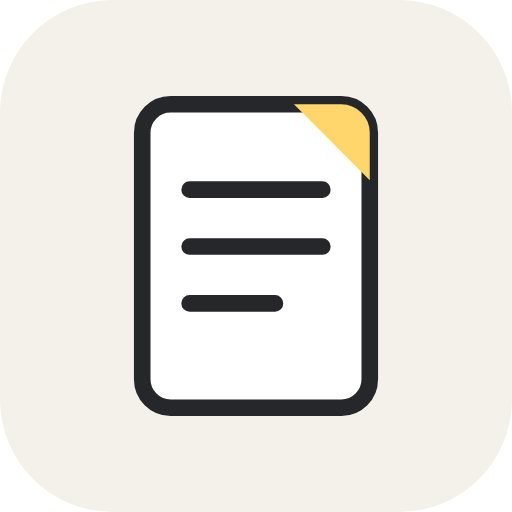
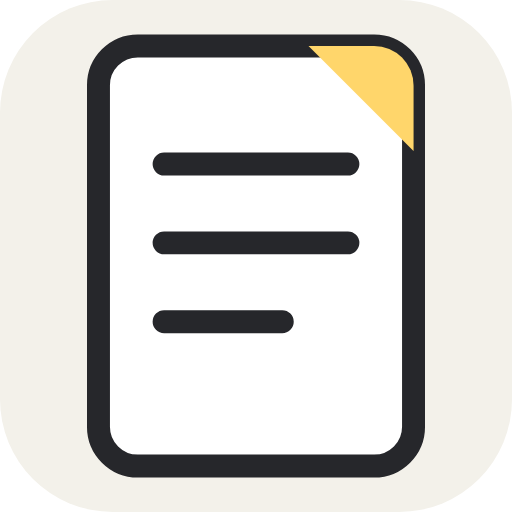
앱 아이콘 그림을 키워 작업 표시줄과 홈 화면에서 다른 앱만큼 보이게, 아이콘 주소에 버전

Changed region(s): [[0.1562, 0.0625, 0.8438, 0.9375]]

diff --git a/web/src/appInstall.ts b/web/src/appInstall.ts
@@ -1,6 +1,9 @@
 // 홈 화면 앱(설치형 웹앱). 이름과 아이콘은 설치할 때 고르고, 이 브라우저에 기억해 둔다.
 // 설치 정보(manifest)는 서버가 고른 값으로 만들어 주고(/api/app/manifest), 화면은 그 주소만 바꾼다.
 
+/** 아이콘 그림을 바꾸면 서버(APP_ICON_VERSION)와 같이 올린다 */
+export const APP_ICON_VERSION = "2";
+
 export interface AppIcon {
   key: string;
   label: string;
@@ -72,7 +75,7 @@ function setMeta(name: string, content: string): void {
 export function applyAppChoice(choice: AppChoice = readAppChoice()): void {
   const params = new URLSearchParams({ name: choice.name, icon: choice.icon });
   setLink("manifest", `/api/app/manifest?${params.toString()}`);
-  setLink("apple-touch-icon", `/app-icons/${choice.icon}-apple.png`);
+  setLink("apple-touch-icon", `/app-icons/${choice.icon}-apple.png?v=${APP_ICON_VERSION}`);
   setMeta("apple-mobile-web-app-title", choice.name);
   setMeta("apple-mobile-web-app-capable", "yes");
   setMeta("mobile-web-app-capable", "yes");

diff --git a/web/src/InstallDialog.tsx b/web/src/InstallDialog.tsx
@@ -5,6 +5,7 @@ import {
   APP_ICONS,
   APP_NAME_MAX,
   canPromptInstall,
+  APP_ICON_VERSION,
   cleanAppName,
   DEFAULT_APP_NAME,
   externalOpenUrl,
@@ -127,7 +128,7 @@ export default function InstallDialog({ onClose, closing }: { onClose: () => voi
                       className={icon === item.key ? "install-icon install-icon-on" : "install-icon"}
                       onClick={() => setIcon(item.key)}
                     >
-                      <img src={`/app-icons/${item.key}.svg`} alt="" width="44" height="44" />
+                      <img src={`/app-icons/${item.key}-192.png?v=${APP_ICON_VERSION}`} alt="" width="44" height="44" />
                     </button>
                   ))}
                 </div>

diff --git a/web/index.html b/web/index.html
@@ -8,7 +8,7 @@
     <link rel="icon" href="/favicon.svg" type="image/svg+xml" />
     <!-- 홈 화면 앱: 이름과 아이콘은 화면이 고른 값으로 바꾼다(appInstall.ts) -->
     <link rel="manifest" href="/api/app/manifest" />
-    <link rel="apple-touch-icon" href="/app-icons/h-apple.png" />
+    <link rel="apple-touch-icon" href="/app-icons/h-apple.png?v=2" />
     <title>작업 메모</title>
   </head>
   <body>

diff --git a/tests/test_api.py b/tests/test_api.py
@@ -1966,18 +1966,18 @@ def test_settings_per_account(env: Env) -> None:
 def test_app_manifest_uses_checked_name_and_icon(env: Env) -> None:
     body = env.client.get("/api/app/manifest").json()
     assert (body["name"], body["short_name"], body["display"]) == ("ㅁㅇㅅ", "ㅁㅇㅅ", "standalone")
-    assert body["icons"][0]["src"] == "/app-icons/h-192.png"  # 기본 아이콘 H
+    assert body["icons"][0]["src"] == "/app-icons/h-192.png?v=2"  # 기본 아이콘 H
     assert body["id"] == "/" and body["start_url"] == "/"
 
     custom = env.client.get("/api/app/manifest", params={"name": "  업무\n  노트 ", "icon": "a"})
     assert custom.headers["content-type"].startswith("application/manifest+json")
     data = custom.json()
-    assert (data["name"], data["icons"][1]["src"]) == ("업무 노트", "/app-icons/a-512.png")
+    assert (data["name"], data["icons"][1]["src"]) == ("업무 노트", "/app-icons/a-512.png?v=2")
     assert data["icons"][2]["purpose"] == "maskable"
 
     odd = env.client.get("/api/app/manifest", params={"name": "가" * 50, "icon": "../x"}).json()
     assert odd["name"] == "가" * 20  # 20자까지
-    assert odd["icons"][0]["src"] == "/app-icons/h-192.png"  # 모르는 아이콘은 기본
+    assert odd["icons"][0]["src"] == "/app-icons/h-192.png?v=2"  # 모르는 아이콘은 기본
     assert env.client.get("/api/app/manifest", params={"name": "   "}).json()["name"] == "ㅁㅇㅅ"
 
 

diff --git a/mos/api/app.py b/mos/api/app.py
@@ -171,6 +171,8 @@ def channel_to_api(
     return data
 
 
+# 아이콘 그림을 바꾸면 올린다(설치한 앱과 브라우저가 옛 그림을 붙잡지 않게)
+APP_ICON_VERSION = "2"
 # 홈 화면 앱(설치형 웹앱) 아이콘: 키 → 바탕색. 그림은 web/public/app-icons/
 APP_ICONS = {
     "a": "#f3f1ea",
@@ -199,6 +201,7 @@ def app_manifest_data(name: str | None, icon: str | None) -> dict[str, Any]:
     key = icon if icon in APP_ICONS else APP_DEFAULT_ICON
     label = clean_app_name(name)
     color = APP_ICONS[key]
+    v = APP_ICON_VERSION
     return {
         "id": "/",
         "name": label,
@@ -210,10 +213,10 @@ def app_manifest_data(name: str | None, icon: str | None) -> dict[str, Any]:
         "background_color": color,
         "theme_color": color,
         "icons": [
-            {"src": f"/app-icons/{key}-192.png", "sizes": "192x192", "type": "image/png"},
-            {"src": f"/app-icons/{key}-512.png", "sizes": "512x512", "type": "image/png"},
+            {"src": f"/app-icons/{key}-192.png?v={v}", "sizes": "192x192", "type": "image/png"},
+            {"src": f"/app-icons/{key}-512.png?v={v}", "sizes": "512x512", "type": "image/png"},
             {
-                "src": f"/app-icons/{key}-maskable.png",
+                "src": f"/app-icons/{key}-maskable.png?v={v}",
                 "sizes": "512x512",
                 "type": "image/png",
                 "purpose": "maskable",
